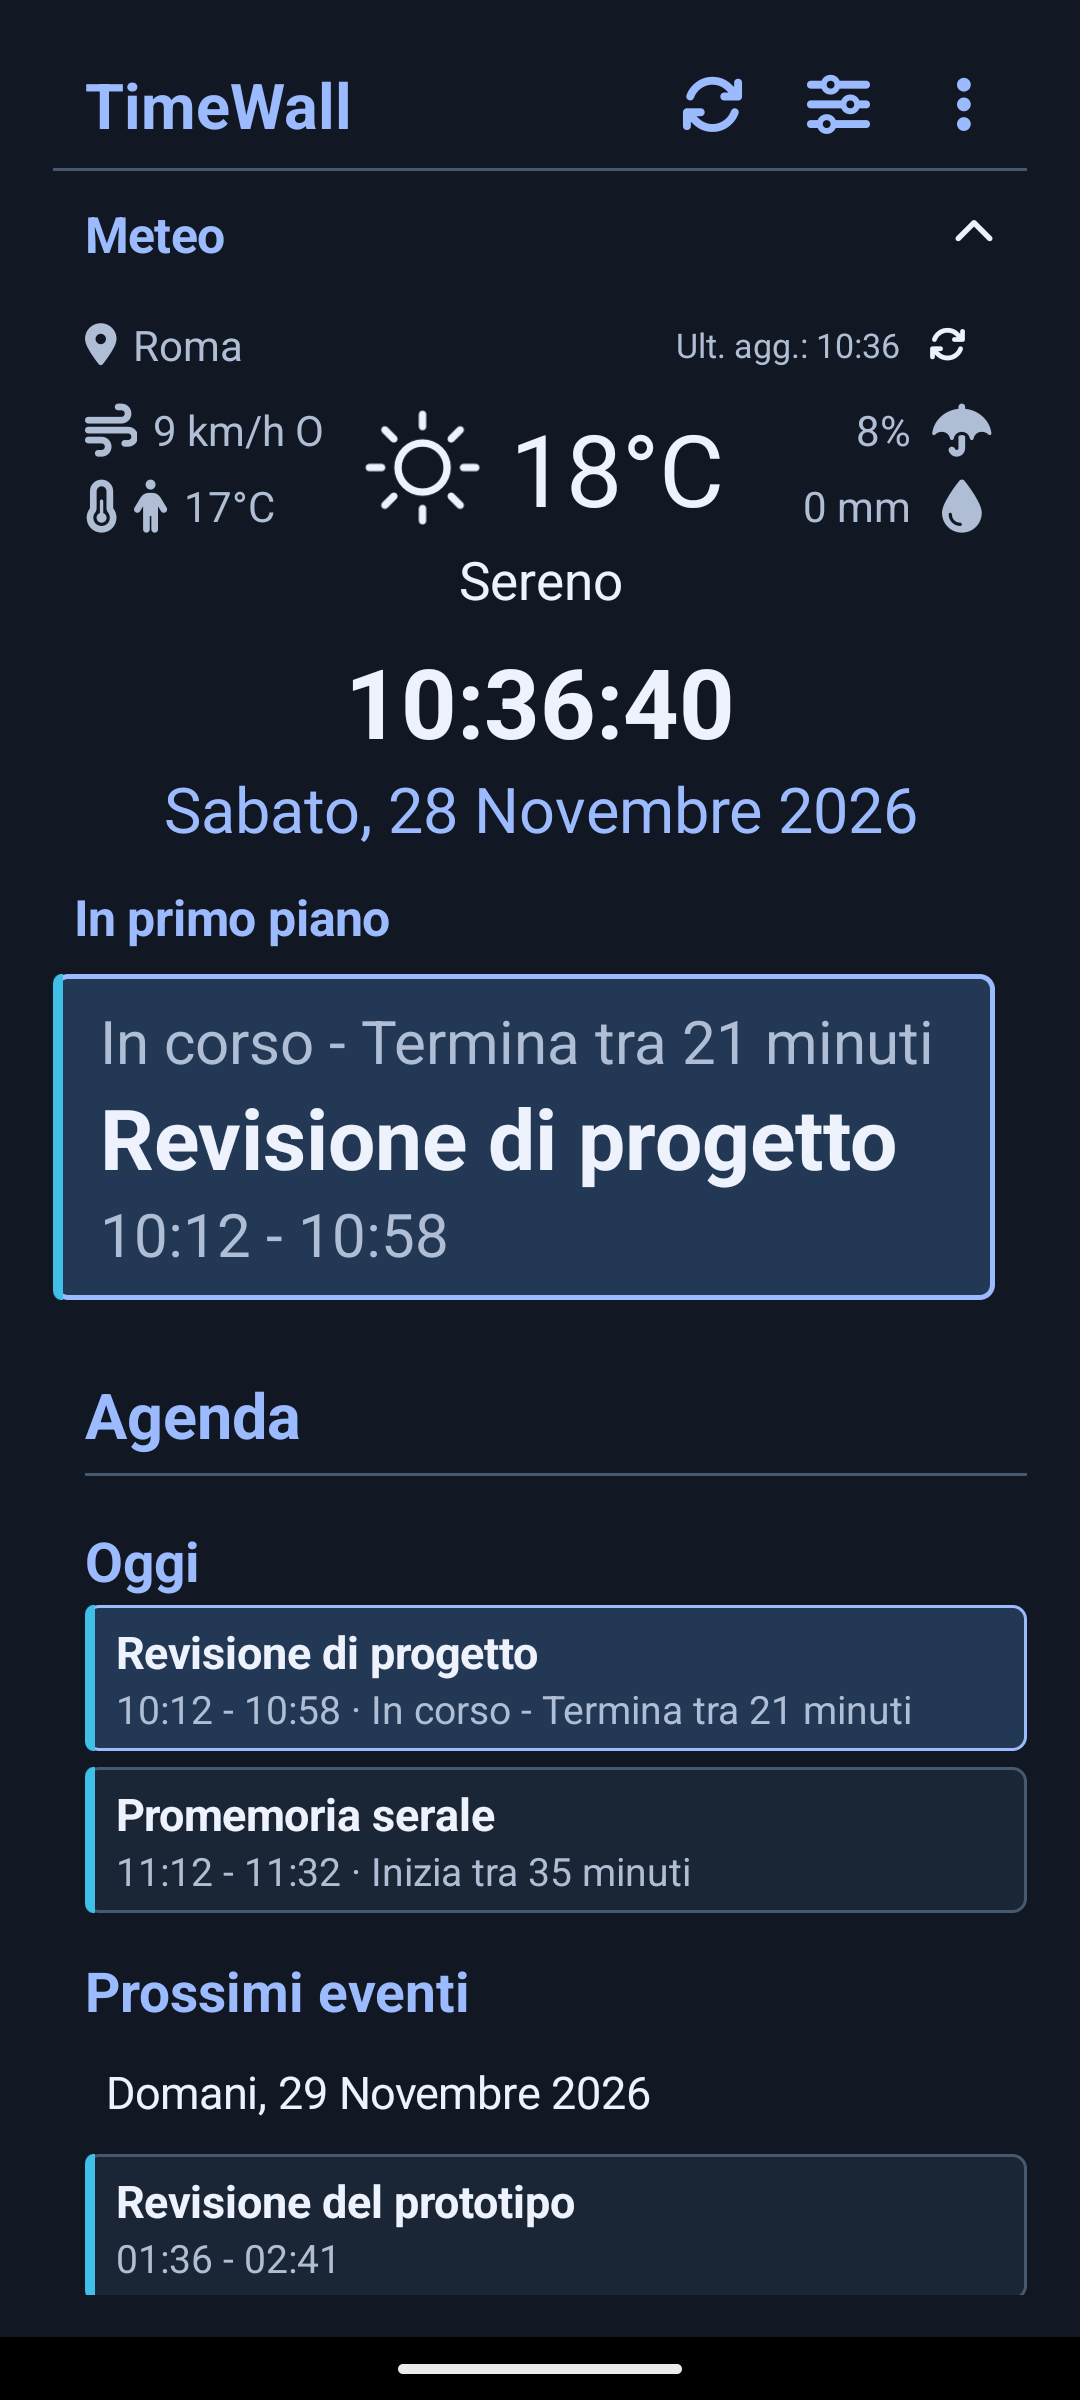
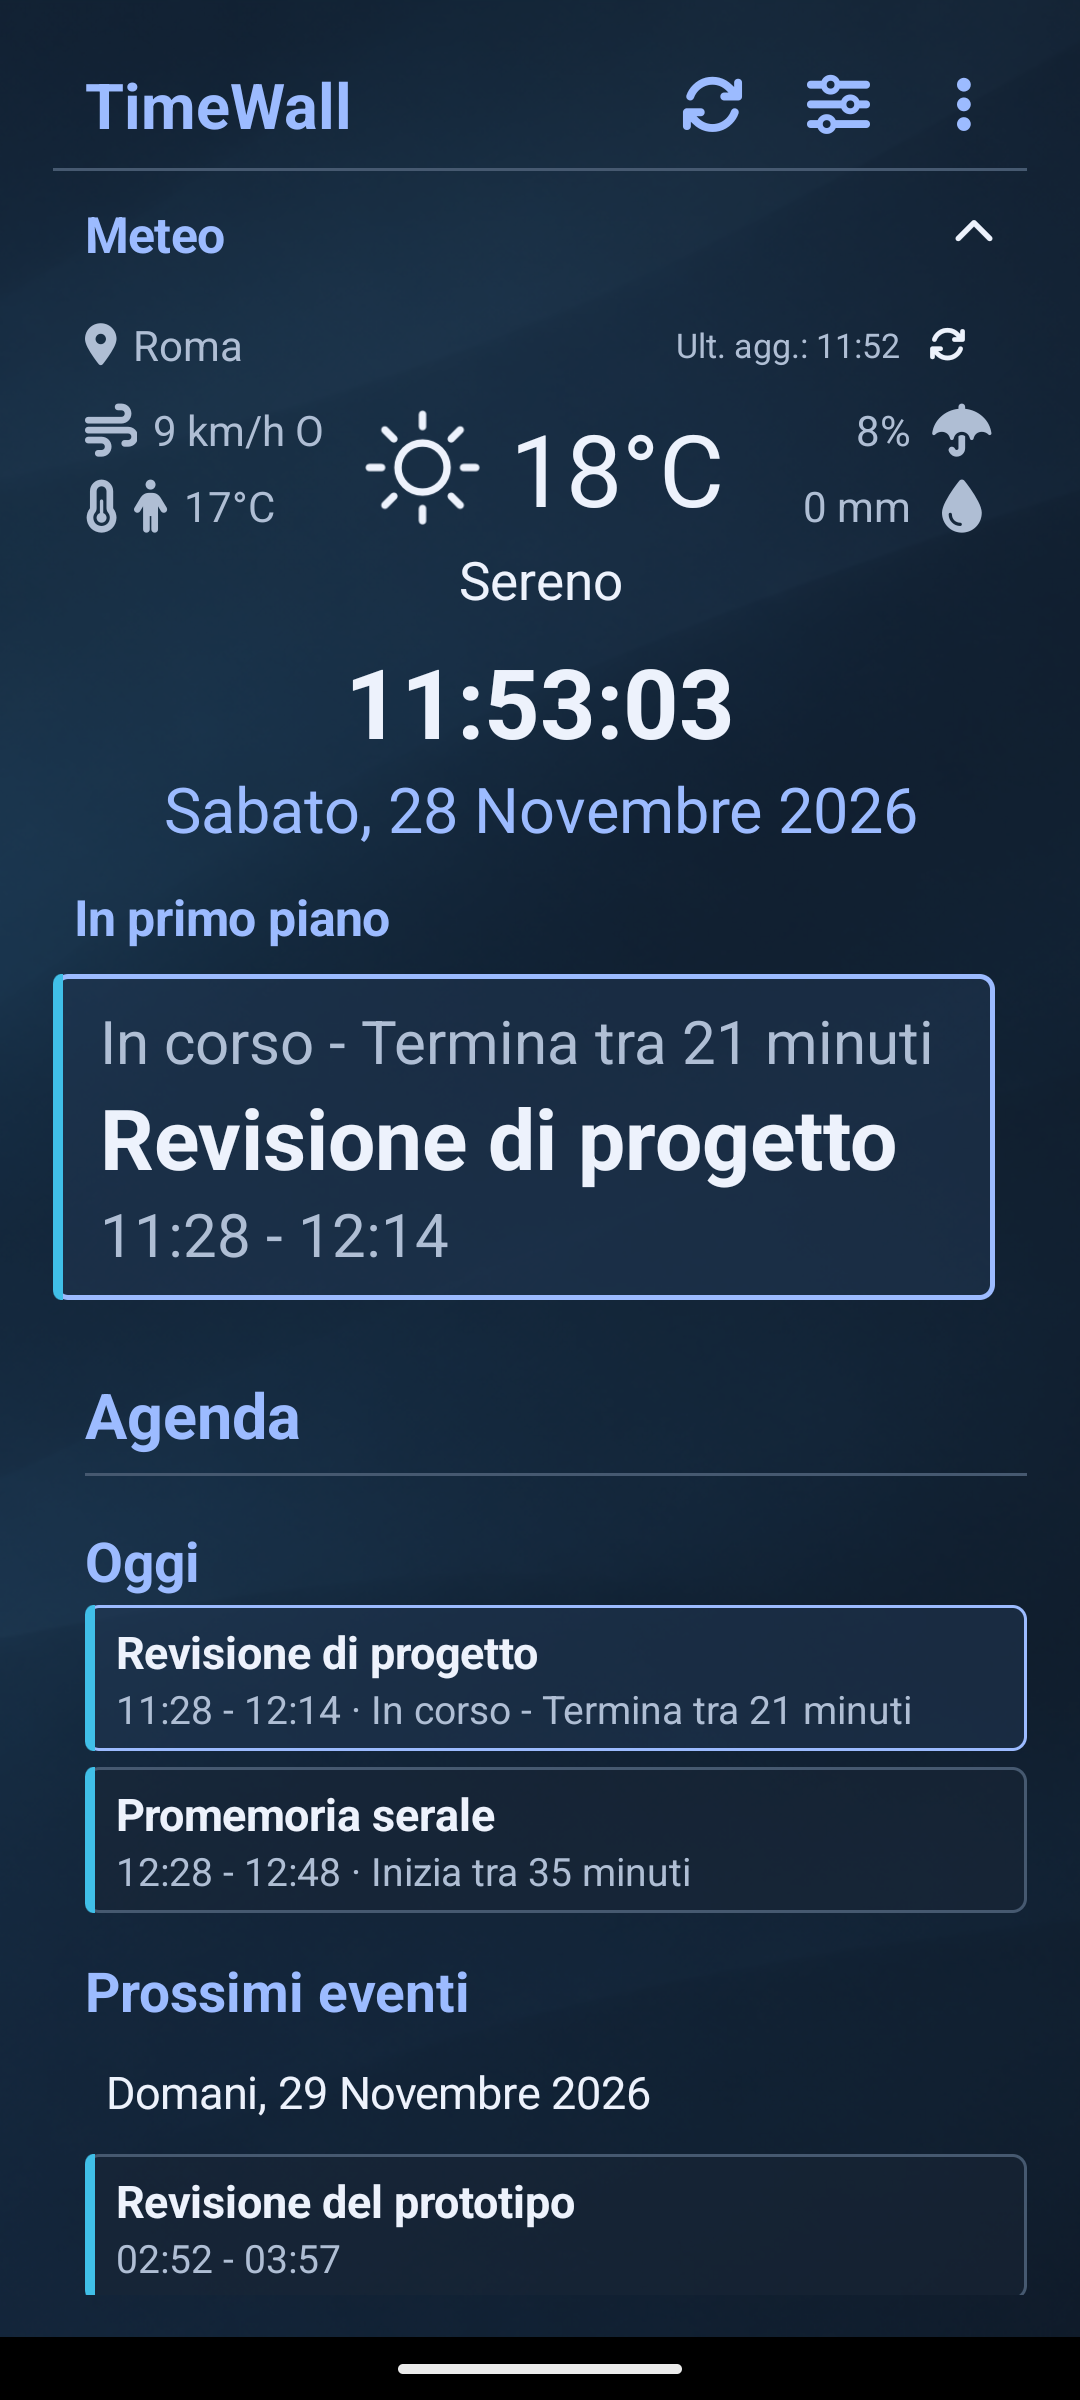
Refresh dashboard screenshots and credit AI-generated backgrounds

diff --git a/build.py b/build.py
@@ -89,7 +89,7 @@ def render(OUT):
   <div class="benefit-bar"><span>{T('Calendari iCal pubblici','Public iCal calendars')}</span><span>{T('Nessun account TimeWall','No TimeWall account')}</span><span>{T('Evento in corso o prossimo','Current or next event')}</span></div>
   <section class="section"><div class="section-heading"><p class="eyebrow">{T('MENO TOCCHI, PIÙ CHIAREZZA','FEWER TAPS, MORE CLARITY')}</p><h2>{T('Tutto ciò che serve.<br>Uno sguardo soltanto.','Everything you need.<br>Just a glance away.')}</h2><p>{T('Sul tavolo, in cucina o accanto alla scrivania: un punto di riferimento per gli impegni di ogni giorno.','On a table, in the kitchen or beside your desk: a shared view of what the day has in store.')}</p></div><div class="features">{card(T('Il tempo, ben visibile','Time, clearly displayed'),T('Un grande orologio con data e formato personalizzabile. Ora, data e meteo si adattano allo spazio disponibile.','A large clock with date and customisable format. The clock, date and weather adapt to the space available.'))}{card(T('L’impegno che conta adesso','The event that matters now'),T('Il quadrante In primo piano mostra l’evento in corso o il prossimo di oggi, anche se è più tardi. Nell’Agenda trovi gli altri appuntamenti, gli eventi di tutta la giornata e i giorni successivi.','The In focus panel shows the current event or the next one today, even if it starts later. The agenda shows other appointments, all-day events and upcoming days.'))}{card(T('Due orientamenti','Two orientations'),T('In orizzontale, la dashboard dispone i contenuti su due colonne. In verticale, scorri una sola colonna ed espandi il meteo quando ti servono i dettagli.','In landscape, the dashboard uses two columns. In portrait, scroll through a single column and expand the weather when you want more detail.'))}</div></section>
   {widgets}
-  <section class="section gallery-section" id="screenshots"><div class="section-heading inline"><div><h2>{T('TimeWall in verticale e in orizzontale','TimeWall in portrait and landscape')}</h2></div><p>{T('Due colonne in orizzontale, una colonna scorrevole in verticale.','Two columns in landscape and one scrollable column in portrait.')}</p></div><div class="gallery orientation-gallery">{screen(hero_file,T('Dashboard in orizzontale','Landscape dashboard'))}{portrait_shot}{expanded_shot}</div><p class="fine">{T('Schermate di TimeWall con dati dimostrativi.','TimeWall screenshots with sample data.')}</p></section>
+  <section class="section gallery-section" id="screenshots"><div class="section-heading inline"><div><h2>{T('TimeWall in verticale e in orizzontale','TimeWall in portrait and landscape')}</h2></div><p>{T('Due colonne in orizzontale, una colonna scorrevole in verticale.','Two columns in landscape and one scrollable column in portrait.')}</p></div><div class="gallery orientation-gallery">{screen(hero_file,T('Dashboard in orizzontale','Landscape dashboard'))}{portrait_shot}{expanded_shot}</div><p class="fine">{T('Schermate di TimeWall con dati dimostrativi. Gli sfondi dei temi preimpostati sono un’anteprima del prossimo aggiornamento.','TimeWall screenshots with sample data. The preset theme backgrounds preview the next update.') if release['build'] < 113 else T('Schermate di TimeWall con dati dimostrativi.','TimeWall screenshots with sample data.')}</p></section>
   <section class="split section"><div><h2>{T('Una seconda vita per i dispositivi che hai già','A second life for devices you already own')}</h2></div><div><p class="lead">{T('Anche un vecchio smartphone o tablet con Android 4.4.2 o successivo può diventare una dashboard da scrivania per gli impegni di ogni giorno.','An older phone or tablet running Android 4.4.2 or later can become a desk dashboard for your everyday plans.')}</p><a class="text-link" href="quick-start.html">{T('Configuralo in pochi passi','Set it up in a few steps')}</a></div></section>{cta()}'''
   steps=[(T('Installa e apri TimeWall','Install and open TimeWall'),T('Scarica l’APK di TimeWall dalla pagina Download e aprilo sul dispositivo. Se Android lo richiede, autorizza l’installazione per l’app con cui hai aperto il file. I nomi delle opzioni variano in base alla versione di Android. Apri TimeWall e orienta lo schermo come preferisci.','Get the TimeWall APK from the Download page and open it on your device. If Android prompts you, allow installation from the app used to open the file. Option names vary by Android version. Open TimeWall and use it in either orientation.')),
   (T('Prepara il link iCal','Get your iCal link ready'),T('Dal servizio che ospita il calendario, copia l’indirizzo pubblico del feed iCal (.ics), accessibile tramite HTTPS senza login. Serve il link al feed, non alla pagina web del calendario. TimeWall legge i calendari: le modifiche agli eventi si fanno nel servizio di origine.','From your calendar provider, copy the public iCal (.ics) feed URL, accessible over HTTPS without signing in. Use the feed URL, not the calendar’s web page. TimeWall reads calendars: edit events in the original calendar service.')),

diff --git a/README.md b/README.md
@@ -35,7 +35,7 @@ python3 -m http.server 8080 --directory dist
 - La pagina Download mostra le funzioni della versione scaricabile in base al numero di build. La home e la guida possono presentare funzioni in test, con un’indicazione della loro disponibilità.
 - Aggiornare il collegamento a Google Play quando la scheda sarà pubblica.
 - Il codice di TimeWall è distribuito con licenza MIT. Le risorse di terze parti mantengono le rispettive licenze.
-- La galleria e il Quick Start usano catture in italiano e inglese da emulatore Android con dati dimostrativi. Le catture orizzontali provengono dalla build 110. Quelle verticali mostrano la dashboard aggiornata alla build 112.
+- La galleria e il Quick Start usano catture in italiano e inglese da emulatore Android con dati dimostrativi. Le catture mostrano la dashboard con gli sfondi dei temi preimpostati e possono anticipare la versione dell’APK scaricabile.
 - La pagina Privacy riprende l’informativa Android e descrive anche l’esportazione manuale delle impostazioni e il comportamento del sito statico.
 
 TimeWall supporta feed iCal pubblici via HTTPS, indipendentemente dal provider.
